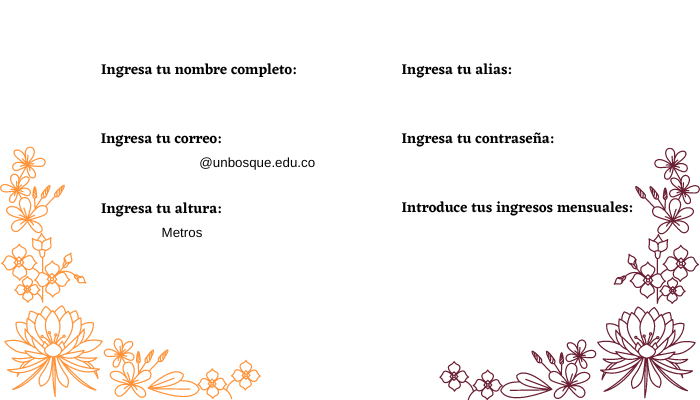
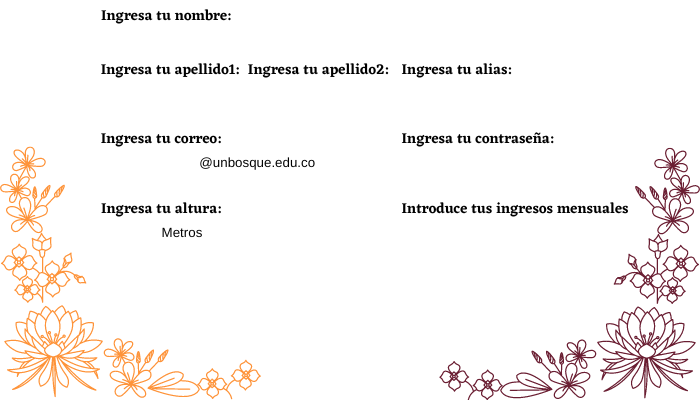
30/11/22 Se actualiza VentanaRegistroHombre y VentanaRegistroMujer y se añaden nuevos fondos para estas.

Changed region(s): [[0.15, 0.15, 0.57, 0.21], [0.57, 0.51, 0.9, 0.54], [0.15, 0.03, 0.33, 0.06]]

diff --git a/PRF_PGR1_202202_VelozaJuan_RiañoFerddy_BullaDaniel_QuintanaSebastian/src/co/edu/unbosque/view/VentanaRegistroMujer.java b/PRF_PGR1_202202_VelozaJuan_RiañoFerddy_BullaDaniel_QuintanaSebastian/src/co/edu/unbosque/view/VentanaRegistroMujer.java
@@ -7,7 +7,7 @@ import javax.swing.*;
 public class VentanaRegistroMujer extends JFrame  {
 	
 	public static final long serialVersionUID = 1L;
-	private JTextField txtnombre, txtaltura, txtcorreo, txtusuario, txtcontraseña, txtdivorcio;
+	private JTextField txtnombre, txtaltura,txtapellido1, txtapellido2, txtcorreo, txtusuario, txtcontraseña, txtdivorcio;
 	private JLabel fondo;
 	private JButton registrate;
 	public static final String REGISTRATEF = "Registrate";
@@ -26,7 +26,11 @@ public class VentanaRegistroMujer extends JFrame  {
 		fondo.setIcon(icono1);
 		fondo.setBounds(0,0, 700, 400);
 		txtnombre = new JTextField();
-		txtnombre.setBounds(100, 80, 200, 25);
+		txtnombre.setBounds(100, 30, 150, 25);
+		txtapellido1 = new JTextField();
+		txtapellido1.setBounds(100, 80, 100, 25);
+		txtapellido2 = new JTextField();
+		txtapellido2.setBounds(245, 80, 100, 25);
 		txtcorreo = new JTextField();
 		txtcorreo.setBounds(100, 150, 100, 25);
 		txtusuario = new JTextField();
@@ -45,6 +49,8 @@ public class VentanaRegistroMujer extends JFrame  {
 		registrate.setBounds(240, 300, 200, 40);
 
 		add(txtnombre);
+		add(txtapellido1);
+		add(txtapellido2);
 		add(txtcorreo);
 		add(txtusuario);
 		add(txtcontraseña);

diff --git a/PRF_PGR1_202202_VelozaJuan_RiañoFerddy_BullaDaniel_QuintanaSebastian/src/co/edu/unbosque/view/VentanaRegistroHombre.java b/PRF_PGR1_202202_VelozaJuan_RiañoFerddy_BullaDaniel_QuintanaSebastian/src/co/edu/unbosque/view/VentanaRegistroHombre.java
@@ -7,7 +7,7 @@ import javax.swing.*;
 public class VentanaRegistroHombre extends JFrame  {
 	
 	public static final long serialVersionUID = 1L;
-	private JTextField txtnombre, txtaltura, txtcorreo, txtusuario, txtcontraseña, txtingresos;
+	private JTextField txtnombre,txtapellido1, txtapellido2, txtaltura, txtcorreo, txtusuario, txtcontraseña, txtingresos;
 	private JLabel fondo;
 	private JButton registrate;
 	public static final String REGISTRATEM = "Registrate";
@@ -26,7 +26,11 @@ public class VentanaRegistroHombre extends JFrame  {
 		fondo.setIcon(icono1);
 		fondo.setBounds(0,0, 700, 400);
 		txtnombre = new JTextField();
-		txtnombre.setBounds(100, 80, 200, 25);
+		txtnombre.setBounds(100, 30, 150, 25);
+		txtapellido1 = new JTextField();
+		txtapellido1.setBounds(100, 80, 100, 25);
+		txtapellido2 = new JTextField();
+		txtapellido2.setBounds(245, 80, 100, 25);
 		txtcorreo = new JTextField();
 		txtcorreo.setBounds(100, 150, 100, 25);
 		txtusuario = new JTextField();
@@ -46,6 +50,8 @@ public class VentanaRegistroHombre extends JFrame  {
 		
 
 		add(txtnombre);
+		add(txtapellido1);
+		add(txtapellido2);
 		add(txtcorreo);
 		add(txtusuario);
 		add(txtcontraseña);
